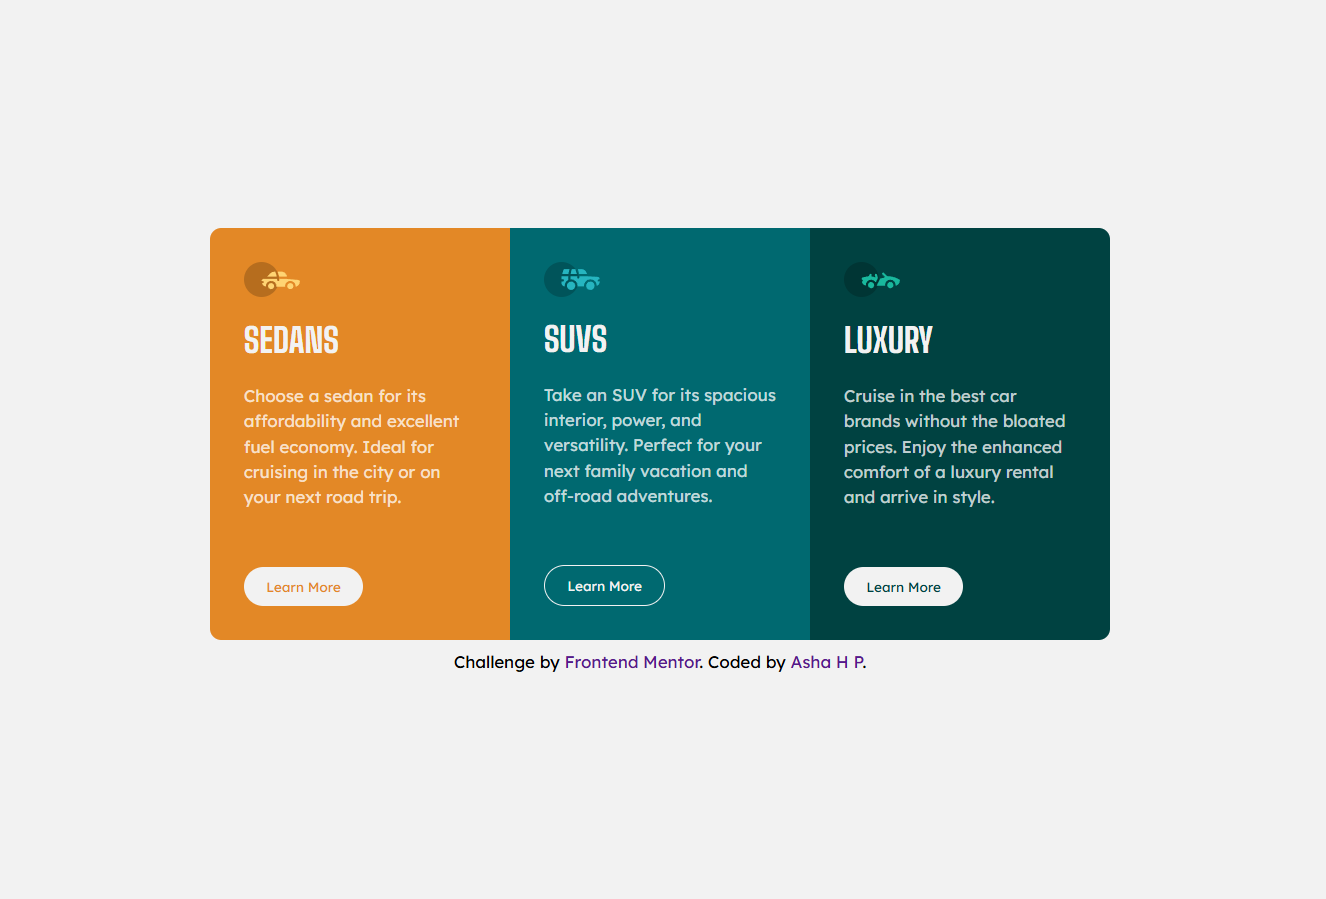
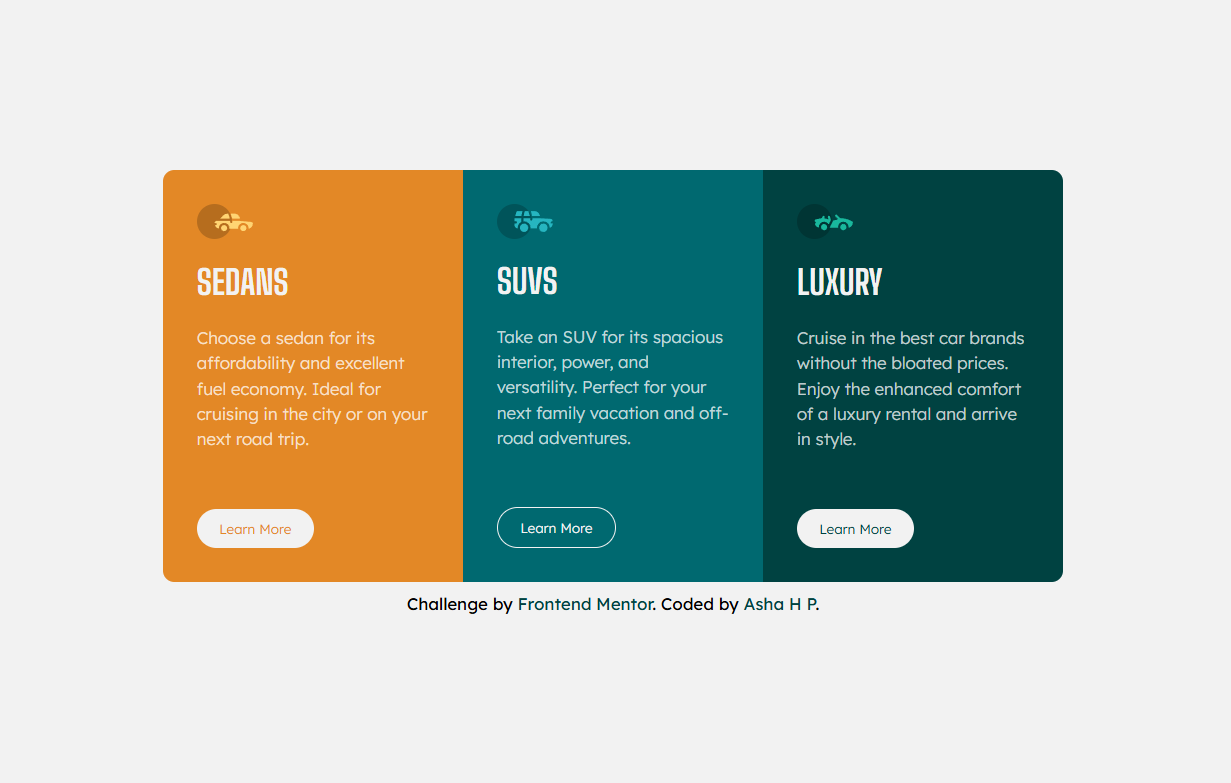
update README

Changed region(s): [[0.1235, 0.2146, 0.8643, 0.7969]]

diff --git a/styles.css b/styles.css
@@ -147,6 +147,11 @@ body{
     text-decoration: none;
 }
 
+.attribution a:link, .attribution a:visited {
+    text-decoration: none;
+    color: var(--primary-3);
+}
+
 .attribution a:hover, .attribution a:active {
     text-decoration: underline;
     color: var(--primary-1);
